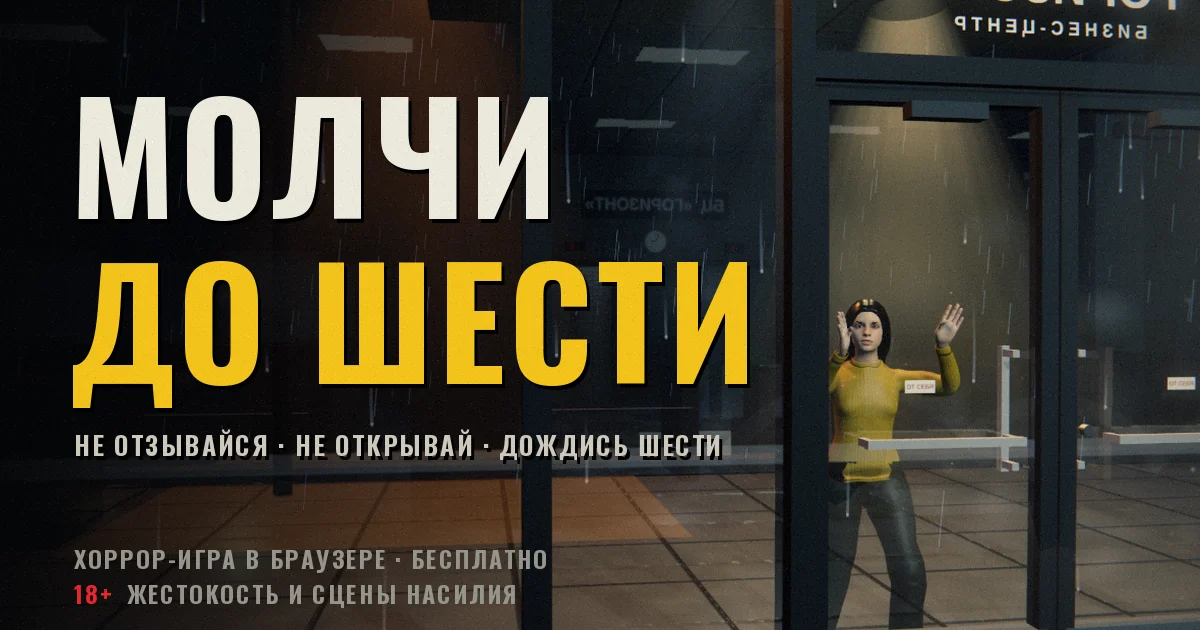
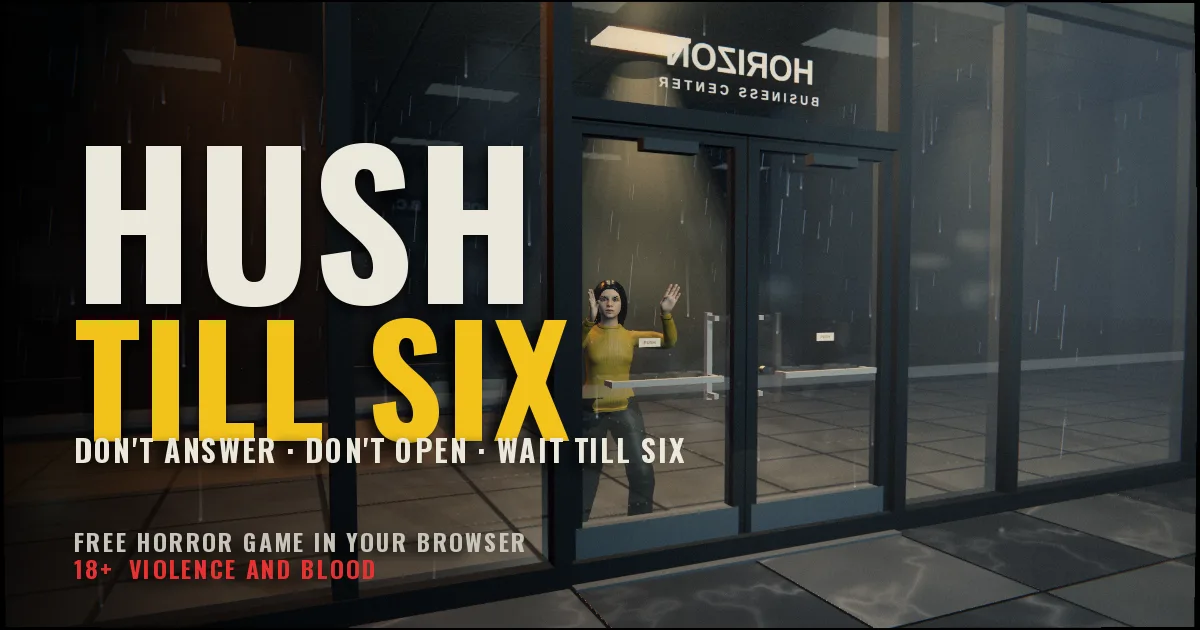
Hush Till Six: пауза и настройки без выхода из игры, анимация не ломается на паузе кадра, губы по словам, английский пролог, вертикальный кадр шире
- Кости: three.js не переписывает кость, если клип не изменился; пока кадр ждёт тапа, правки IK/наклона копились — люди сгибались и «ложились». Откат к чистой позе каждый кадр.
- Губы: визема по букве звучащего слова (тайминги слов), рот внутри в тени, мысли Итана — без движения губ.
- Английская версия: пролог грузился русским голосом (тайминги приходили позже).
- ☰ — пауза (Продолжить/Настройки/Главное меню), Esc; настройки с крестиком и прокруткой; язык и графика — перезагрузка с продолжением с того же места.
- Название всегда Hush Till Six; новое превью; записка «Правила» по новому сюжету.
- Вертикальный экран: угол обзора шире, чтобы оба героя были в кадре.

Claude-Session: https://claude.ai/code/session_01DiwnqB26fpYcSxva5WqzjX

diff --git a/public/games/nightshift/chars2.js b/public/games/nightshift/chars2.js
@@ -955,6 +955,14 @@ function feetIn(C, P) {
     keepWorld(C, 'foot_' + sd, fq);
   }
 }
+// three.js пишет в кость, только если значение клипа изменилось с прошлого кадра. Когда время кадра стоит (ждём тапа в конце реплики),
+// правки поверх клипа (наклон корпуса, IK рук и ног, таз, поворот, взгляд) накапливались кадр за кадром — человек сгибался и «ложился».
+// Поэтому перед клипом кости возвращаются к чистой позе прошлого кадра, а сразу после клипа чистая поза запоминается заново.
+function bonesRestore(C) { if (C.clean) for (const e of C.clean) { e[0].quaternion.copy(e[1]); e[0].position.copy(e[2]); } }
+function bonesSnap(C) {
+  if (!C.clean) C.clean = [...new Set(Object.values(C.bone))].map(b => [b, new T.Quaternion(), new T.Vector3()]);
+  for (const e of C.clean) { e[1].copy(e[0].quaternion); e[2].copy(e[0].position); }
+}
 function act3Body(C, P, tt, dt) {
   if (C.clip !== '§') { C.mixer.stopAllAction(); C.acts3 = C.acts3 || {}; for (const k in C.acts3) C.acts3[k].on3 = false; C.act = null; C.clip = '§'; }
   buildHands();
@@ -975,7 +983,7 @@ function act3Body(C, P, tt, dt) {
     used.add(nm);
   }
   for (const nm in C.acts3) if (!used.has(nm) && C.acts3[nm].on3) { C.acts3[nm].stop(); C.acts3[nm].on3 = false; }
-  C.mixer.update(0);
+  bonesRestore(C); C.mixer.update(0); bonesSnap(C);
   if (P.legs === 'feet') feetIn(C, P);
   if (P.pelvis || P.legs === 'plant') {   // таз сдвигается (присесть, перенести вес), ступни остаются где стояли — ноги сгибаются сами (IK)
     C.root.updateWorldMatrix(true, true);
@@ -1040,7 +1048,7 @@ function updateSkinned(C, t, dt) {
   // пальцы — в исходную позу до анимации: клип их почти не трогает, и кулак от швабры/стука иначе оставался навсегда
   for (const sd of ['l', 'r']) { for (const f of FING) for (let j = 1; j <= 3; j++) { const n = f + '_0' + j + '_' + sd; if (C.bone[n]) C.bone[n].quaternion.copy(C.rest[n]); }
     for (let j = 1; j <= 3; j++) { const n = 'thumb_0' + j + '_' + sd; if (C.bone[n]) C.bone[n].quaternion.copy(C.rest[n]); } }
-  C.mixer.update(Math.min(sdt, .2));
+  bonesRestore(C); C.mixer.update(Math.min(sdt, .2)); bonesSnap(C);
   }
   // ноги: у базовой анимации стойка «борца» (ступни широко) — сводим ступни под бёдра, подошва остаётся на полу
   const STAT = { stand: 1, talk: 1, knock: 1, press: 1, give: 1, paper: 1, reach: 1, hug: 1, mop: 1, slam: 1 };
@@ -1235,17 +1243,20 @@ function humanMat(C, n, kind, Q) {
   if (CINE && cut && kind !== 'eyes') m.alphaToCoverage = true;
   if (CINE && kind === 'eyes') m.envMapIntensity = .9;
   if (CINE && (kind === 'skin' || cloth)) m.envMapIntensity = .22;   // иначе на контровом свете кожа светится ореолом
+  if (CINE && (kind === 'teeth' || kind === 'tongue')) { m.envMapIntensity = .06; m.roughness = .55; }   // во рту нет бликов от комнаты
   const re = Array.isArray(tint) ? tint : null, U = Object.assign({}, C.HU, { uQ: { value: Q }, uTint: { value: new T.Color(re ? re[0] : 0xffffff) }, uGain: { value: re ? re[1] : 1 } });
   const snap = m.onBeforeCompile;
   m.onBeforeCompile = sh => {
     snap(sh); Object.assign(sh.uniforms, U);
     sh.vertexShader = 'uniform mat4 uQ;\nvarying vec3 vB;\n' + sh.vertexShader.replace('#include <begin_vertex>', '#include <begin_vertex>\n  vB = (uQ * vec4(position, 1.)).xyz;');
-    sh.fragmentShader = `uniform vec3 uTint, uGoreP, uEyeL3, uEyeR3; uniform float uGain, uGrey, uWet, uGore, uSocket, uH;
+    sh.fragmentShader = `uniform vec3 uTint, uGoreP, uEyeL3, uEyeR3; uniform float uGain, uGrey, uWet, uGore, uSocket, uH, uMouthZ;
 varying vec3 vB;
 float hh3(vec3 p) { return fract(sin(dot(p, vec3(12.9898, 78.233, 37.719))) * 43758.5453); }
 ` + sh.fragmentShader.replace('#include <map_fragment>', `#include <map_fragment>
   ${re ? `diffuseColor.rgb = mix(vec3(${LUMA}) * uTint * uGain, uTint, ${(re[2] || 0).toFixed(2)});` : ''}
   ${kind === 'skin' ? `{ float s = smoothstep(.04, .012, length(vB - uEyeL3)) + smoothstep(.04, .012, length(vB - uEyeR3)); diffuseColor.rgb *= 1. - .9 * uSocket * clamp(s, 0., 1.); }` : ''}
+  ${kind === 'teeth' || kind === 'tongue' ? `{ float dz = clamp((uMouthZ - vB.z) / .026, 0., 1.), pink = clamp((diffuseColor.r - diffuseColor.g) * 2.5, 0., 1.);   // рот внутри в тени: чем глубже, тем темнее; дёсны и язык — приглушённые
+    diffuseColor.rgb *= mix(1., .16, dz) * (1. - .55 * pink) * ${kind === 'tongue' ? '.5' : '1.'}; }` : ''}
   ${(() => { for (const k in (o.dim || {})) if (kind.includes(k)) return `diffuseColor.rgb *= ${o.dim[k].toFixed(2)};`; return ''; })()}
   float shK = 1.;   // своя тень на лице: карта теней грубая — нос и скулы дают на щеке рваный клин; на голове тень ослабляем
   ${kind === 'skin' ? `shK = 1. - .8 * smoothstep(.17, .1, length(vB - ((uEyeL3 + uEyeR3) * .5 + vec3(0., .02, -.08))));` : ''}
@@ -1268,6 +1279,8 @@ float hh3(vec3 p) { return fract(sin(dot(p, vec3(12.9898, 78.233, 37.719))) * 43
 // виземы речи: открытые (гласные) и закрытые/узкие (согласные)
 const VOPEN = ['viseme_aa', 'viseme_O', 'viseme_E', 'viseme_aa', 'viseme_I', 'viseme_U', 'viseme_E'];
 const VSHUT = ['viseme_PP', 'viseme_FF', 'viseme_SS', 'viseme_DD', 'viseme_nn', 'viseme_kk', 'viseme_TH', 'viseme_CH', 'viseme_RR'];
+// насколько открыт рот на каждой виземе (челюсть): гласные — шире, «п/б/м» — губы сомкнуты
+const JAW = { viseme_aa: .26, viseme_O: .2, viseme_E: .16, viseme_I: .1, viseme_U: .1, viseme_PP: 0, viseme_FF: .03, viseme_TH: .06, viseme_DD: .08, viseme_kk: .11, viseme_CH: .07, viseme_SS: .04, viseme_nn: .06, viseme_RR: .09 };
 const CLIPS3 = {};   // клипы с высотой таза под рост модели
 function clipsFor(k) {
   const key = k.toFixed(3); if (CLIPS3[key]) return CLIPS3[key];
@@ -1302,7 +1315,7 @@ function makeHuman(o) {
   for (const b of bones) { C.bone[b.name] = b; C.rest[b.name] = b.quaternion.clone(); }
   // мерки в позе покоя (метры): рост, глаза, рот
   C.HU = { uGrey: { value: o.grey || 0 }, uWet: { value: o.wet || 0 }, uGore: { value: 0 }, uSocket: { value: o.socket || 0 },
-    uGoreP: { value: new T.Vector3() }, uEyeL3: { value: new T.Vector3() }, uEyeR3: { value: new T.Vector3() }, uH: { value: 1 } };
+    uGoreP: { value: new T.Vector3() }, uEyeL3: { value: new T.Vector3() }, uEyeR3: { value: new T.Vector3() }, uH: { value: 1 }, uMouthZ: { value: 9 } };
   const toM = n => rest[meshes.indexOf(n)][0].clone().multiply(n.bindMatrix);   // сжатые координаты → метры
   const part = {};
   for (const n of meshes) {
@@ -1324,7 +1337,7 @@ function makeHuman(o) {
   }
   if (part.teeth) { const tb = bbox(part.teeth).clone().applyMatrix4(part.teeth.userData.Q);   // рот: перед верхних зубов
     const mw = new T.Vector3((tb.min.x + tb.max.x) / 2, tb.min.y + (tb.max.y - tb.min.y) * .55, tb.max.z + .006);
-    C.mouthW = mw.clone(); C.mouthL = C.bone.Head.worldToLocal(mw.clone()); }
+    C.mouthW = mw.clone(); C.mouthL = C.bone.Head.worldToLocal(mw.clone()); C.HU.uMouthZ.value = tb.max.z; }
   C.HU.uH.value = C.H / 1.8;
   // кровь: у жертвы — горло и грудь; у Жильца — рот, подбородок, грудь
   const neck = C.bone.neck_01.getWorldPosition(new T.Vector3());
@@ -1387,14 +1400,22 @@ function faceV3(C, tt, dt) {
   add('browDownLeft', clamp(-B.y * .9, 0, 1)); add('browDownRight', clamp(-B.y * .9, 0, 1));
   // речь: громкость голоса открывает челюсть, виземы меняются слогами (гласная — открытая, согласная — узкая/сомкнутая)
   const m = U.uTalk.value;
-  if (m > .02) {
+  if (C.vis) {   // губы по буквам реплики: движок знает, какое слово звучит и какая в нём буква сейчас
+    const v = C.vis === 'sil' ? null : C.vis;
+    if (v !== C.vCur) { C.vPrev = C.vCur; C.vCur = v; C.vK = 0; }
+    C.vK = Math.min(1, (C.vK || 0) + dt / .045);
+    const g = clamp(.4 + m * .9, 0, .85);   // даже шёпот — губы работают; громче — шире
+    if (C.vPrev) add(C.vPrev, (1 - C.vK) * g);
+    if (C.vCur) add(C.vCur, C.vK * g);
+    add('jawOpen', lerp(JAW[C.vPrev] || 0, JAW[C.vCur] || 0, C.vK) * (.6 + .5 * Math.min(1, m * 1.5)));
+  } else if (m > .02) {   // нет текста (крик, плач, текст без озвучки) — по громкости
     C.vT = (C.vT ?? 0) - dt;
     if (C.vT <= 0) { C.vT = .065 + rnd() * .085; C.vPrev = C.vCur; C.vCur = m > .3 ? VOPEN[rnd() * VOPEN.length | 0] : VSHUT[rnd() * VSHUT.length | 0]; C.vK = 0; }
     C.vK = Math.min(1, (C.vK || 0) + dt / .055);
     const g = Math.min(1, m * 1.5);
     if (C.vPrev) add(C.vPrev, (1 - C.vK) * g);
     if (C.vCur) add(C.vCur, C.vK * g);
-    add('jawOpen', m * .22);
+    add('jawOpen', m * .4);
   } else { C.vPrev = C.vCur = null; }
   // улыбка; у «Лили» за стеклом — шире, чем бывает у людей
   const sm = Math.max(o.smile || 0, fs.smile ? +fs.smile : 0);
@@ -1414,7 +1435,11 @@ function faceV3(C, tt, dt) {
     if (o.monster) { add('noseSneerLeft', scr * .7); add('noseSneerRight', scr * .7); add('mouthUpperUpLeft', scr * .8); add('mouthUpperUpRight', scr * .8); }
   }
   if (o.monster && !scr) { add('mouthStretchLeft', .25); add('mouthStretchRight', .25); add('eyeWideLeft', .5); add('eyeWideRight', .5); }
-  for (const n of C.M) { const d = n.morphTargetDictionary, inf = n.morphTargetInfluences; for (const k in d) inf[d[k]] = W[k] || 0; }
+  // язык лежит на дне рта: опускается вместе с челюстью и губами (своих форм звуков почти не берёт — иначе торчал вперёд и заполнял рот)
+  const tOpen = Math.min(1, (W.jawOpen || 0) + .6 * Math.max(W.viseme_aa || 0, .85 * (W.viseme_O || 0), .7 * (W.viseme_E || 0), .5 * (W.viseme_U || 0), .45 * (W.viseme_I || 0)));
+  for (const n of C.M) { const d = n.morphTargetDictionary, inf = n.morphTargetInfluences;
+    if (/tongue/i.test(n.name)) { for (const k in d) inf[d[k]] = k === 'jawOpen' ? tOpen : k === 'viseme_TH' || k === 'viseme_DD' ? .3 * (W[k] || 0) : 0; continue; }
+    for (const k in d) inf[d[k]] = W[k] || 0; }
 }
 
 /* ---------- актёры «Ночной смены» ---------- */

diff --git a/public/games/nightshift/index.html b/public/games/nightshift/index.html
@@ -4,25 +4,25 @@
 <meta charset="utf-8">
 <meta name="viewport" content="width=device-width,initial-scale=1,maximum-scale=1,user-scalable=no,viewport-fit=cover">
 <meta name="theme-color" content="#050607">
-<title>Молчи до шести</title>
+<title>Hush Till Six</title>
 <meta name="description" content="Интерактивное хоррор-кино: ночной охранник, четыре правила и сестра за стеклом. Твои выборы решают, доживёшь ли ты до утра.">
-<meta name="application-name" content="Молчи до шести">
-<meta name="apple-mobile-web-app-title" content="Молчи до шести">
+<meta name="application-name" content="Hush Till Six">
+<meta name="apple-mobile-web-app-title" content="Hush Till Six">
 <meta name="apple-mobile-web-app-capable" content="yes">
 <meta name="mobile-web-app-capable" content="yes">
 <meta name="apple-mobile-web-app-status-bar-style" content="black-translucent">
 <meta property="og:type" content="website">
 <meta property="og:site_name" content="Yompix Games">
-<meta property="og:title" content="Молчи до шести — интерактивный хоррор">
+<meta property="og:title" content="Hush Till Six — interactive horror">
 <meta property="og:description" content="Ночной охранник, четыре правила и сестра за стеклом. Не впускай её. Играй прямо в браузере.">
-<meta property="og:image" content="https://office-dreams-production.up.railway.app/games/nightshift/og.jpg?v=2">
+<meta property="og:image" content="https://office-dreams-production.up.railway.app/games/nightshift/og.jpg?v=3">
 <meta property="og:image:width" content="1200">
 <meta property="og:image:height" content="630">
-<meta property="og:image:alt" content="МОЛЧИ ДО ШЕСТИ: девушка в жёлтом свитере за стеклянной дверью ночью">
+<meta property="og:image:alt" content="HUSH TILL SIX: a girl in a yellow sweater behind a glass door at night">
 <meta name="twitter:card" content="summary_large_image">
 <meta name="twitter:title" content="Молчи до шести — интерактивный хоррор">
 <meta name="twitter:description" content="Ночной охранник, четыре правила и сестра за стеклом. Не впускай её.">
-<meta name="twitter:image" content="https://office-dreams-production.up.railway.app/games/nightshift/og.jpg?v=2">
+<meta name="twitter:image" content="https://office-dreams-production.up.railway.app/games/nightshift/og.jpg?v=3">
 <link rel="manifest" href="manifest.json">
 <link rel="icon" href="favicon.ico" sizes="16x16 32x32 48x48">
 <link rel="icon" type="image/png" sizes="32x32" href="favicon-32.png">
@@ -74,6 +74,11 @@ canvas { position: absolute; inset: 0; width: 100%; height: 100%; display: block
 #note div { width: 82%; background: #efe6d2; color: #161616; font: 800 calc(4.6 * var(--u))/1.45 "Courier New", monospace; padding: calc(6 * var(--u)) calc(5 * var(--u)); transform: rotate(-1.5deg); box-shadow: 0 calc(2 * var(--u)) calc(8 * var(--u)) #000; white-space: pre-line; }
 #note div i { display: block; color: #a01818; margin-top: calc(3 * var(--u)); font-style: normal; }
 #note small { display: block; margin-top: calc(4 * var(--u)); font: 600 calc(3.2 * var(--u))/1.3 Inter, Arial, sans-serif; opacity: .6; text-align: center; }
+#note div.memo { white-space: normal; font: 600 calc(3.5 * var(--u))/1.45 "Courier New", monospace; max-height: 86%; overflow-y: auto; }
+#note div.memo b { display: block; font-weight: 800; font-size: calc(3.9 * var(--u)); margin-bottom: calc(2.4 * var(--u)); letter-spacing: calc(.2 * var(--u)); }
+#note div.memo span { display: block; margin-bottom: calc(1.6 * var(--u)); padding-left: calc(3 * var(--u)); text-indent: calc(-3 * var(--u)); }
+#note div.memo span::before { content: '— '; }
+#note div.memo i { white-space: pre-line; font-weight: 800; font-size: calc(4 * var(--u)); }
 /* выбор */
 #choice { position: absolute; left: 0; right: 0; bottom: 0; padding: 0 7% 14%; pointer-events: auto; background: linear-gradient(transparent, rgba(0,0,0,.85) 40%); animation: fadein .35s; }
 #choice h2 { margin: 0 0 calc(4 * var(--u)); text-align: center; font-size: calc(6.6 * var(--u)); font-weight: 900; text-shadow: 0 0 calc(2 * var(--u)) #000; }
@@ -229,6 +234,22 @@ canvas { position: absolute; inset: 0; width: 100%; height: 100%; display: block
 .screen.sub { background: rgba(0,0,0,.72); justify-content: flex-start; padding-top: 18%; }
 .screen.sub h1 { font-size: calc(9 * var(--u)); letter-spacing: calc(1 * var(--u)); text-shadow: none; margin-bottom: calc(5 * var(--u)); }
 .sets { width: 100%; display: flex; flex-direction: column; gap: calc(2 * var(--u)); margin-bottom: calc(3 * var(--u)); }
+/* крестик «назад/закрыть» в углу экранов меню; пауза в игре; настройки прокручиваются, шапка с крестиком всегда видна */
+#pz { position: absolute; inset: 0; z-index: 20; }
+.sx { position: absolute; top: calc(3 * var(--u)); right: calc(3 * var(--u)); z-index: 3; width: calc(11 * var(--u)); height: calc(11 * var(--u)); display: flex; align-items: center; justify-content: center; padding: 0;
+  border-radius: 50%; border: calc(.4 * var(--u)) solid rgba(255,255,255,.3); background: rgba(10,10,12,.7); color: #ece8dc; cursor: pointer; pointer-events: auto; }
+.sx .ic { width: 55%; height: 55%; stroke-width: 2.2; }
+.screen.pz { background: rgba(0,0,0,.8); backdrop-filter: blur(3px); }
+#pz .screen.sub { background: rgba(4,4,6,.95); }   /* настройки поверх игры: субтитры и кнопки игры не просвечивают */
+.screen.pz h1 { margin-bottom: calc(8 * var(--u)); }
+.screen.pz .btn { max-width: calc(80 * var(--u)); }
+.screen.sub { overflow-y: auto; overscroll-behavior: contain; }
+.sets-scr { padding-top: 0 !important; }
+.sets-hd { position: sticky; top: 0; z-index: 2; width: 100%; display: flex; align-items: center; justify-content: center; min-height: calc(18 * var(--u)); margin-bottom: calc(2 * var(--u));
+  background: linear-gradient(rgba(0,0,0,.92) 75%, rgba(0,0,0,0)); flex: none; }
+.sets-hd h1 { margin: 0 !important; }
+.sets-hd .sx { top: 50%; right: 0; transform: translateY(-50%); }
+.sets-scr > small, .sets-scr > .btn { flex: none; }
 .set { display: flex; justify-content: space-between; align-items: center; width: 100%; padding: calc(4 * var(--u)) calc(4.4 * var(--u)); background: rgba(255,255,255,.05); border: calc(.3 * var(--u)) solid rgba(255,255,255,.14); border-radius: calc(2.4 * var(--u)); color: #ece8dc; font: 600 calc(4.6 * var(--u))/1 Inter, Arial, sans-serif; cursor: pointer; }
 .set b { font: 700 calc(4 * var(--u))/1 NSUI, Inter, Arial, sans-serif; letter-spacing: calc(.5 * var(--u)); color: #f2c21b; }
 .set:active { background: rgba(224,48,58,.2); }
@@ -326,6 +347,9 @@ body.land #choice h2 { margin-bottom: calc(3 * var(--u)); }
 body.land .screen { padding: 4% 8%; }
 body.land .screen p, body.land .gal, body.land .sets, body.land .spons { max-width: calc(120 * var(--u)); }
 body.land .screen.sub { padding-top: 5%; }
+body.land .sets-scr .sets { display: grid; grid-template-columns: 1fr 1fr; gap: calc(2 * var(--u)) calc(3 * var(--u)); max-width: calc(190 * var(--u)); }
+body.land .sets-scr .vols { grid-column: 1 / -1; display: grid; grid-template-columns: 1fr 1fr; column-gap: calc(6 * var(--u)); }
+body.land .sets-scr .sets-hd { max-width: calc(190 * var(--u)); min-height: calc(14 * var(--u)); }
 body.land .screen.jr { flex-direction: row; align-items: flex-start; justify-content: center; padding: 3% 5% 4%; gap: calc(9 * var(--u)); }
 body.land .jr-page { width: calc(112 * var(--u)); max-width: none; }
 body.land .jr-side { width: calc(76 * var(--u)); padding-top: calc(1 * var(--u)); }
@@ -359,16 +383,17 @@ body.land #keys { display: none; }
   <div id="note" class="hide"></div>
   <div id="sms" class="hide"></div>
   <div id="ui"></div>
+  <div id="pz" class="hide"></div>
 </div>
-<script src="i18n.js?v=5"></script>
+<script src="i18n.js?v=6"></script>
 <script src="lib/three.min.js"></script>
 <script src="lib/gltf.min.js"></script>
 <script src="lib/meshopt_decoder.js"></script>
 <script src="world.js?v=6"></script>
 <script src="chars.js?v=2"></script>
-<script src="chars2.js?v=11"></script>
-<script src="scenes.js?v=15"></script>
+<script src="chars2.js?v=12"></script>
+<script src="scenes.js?v=16"></script>
 <script src="story.js?v=17"></script>
-<script src="engine.js?v=23"></script>
+<script src="engine.js?v=24"></script>
 </body>
 </html>

diff --git a/public/games/nightshift/scenes.js b/public/games/nightshift/scenes.js
@@ -1699,7 +1699,11 @@ function init() {
 }
 const NAME = { 'ИТАН': ['temych'], 'СМЕНЩИК': ['smenshik'], 'ЛИЛИ': ['katya', 'katyaSmile', 'katyaThing'], '???': ['monster'], 'ФРЭНК': ['mihalych'], 'ГАС': ['cleaner'] };   // кто говорит → чей рот двигается
 const _v = new T.Vector3(), _d = new T.Vector3();
+// вертикальный экран: кадры поставлены под 16:9, при том же вертикальном угле в 9:16 по бокам остаётся треть кадра — двое в кадре не помещаются.
+// Поэтому в вертикали угол шире (по горизонтали ~47° вместо ~26° при fov 44): больше пола и потолка, но герои и предметы в кадре
+const PORT_K = 1.9;
 function aim(c, pos, look, fov, cx, cy, z, sx, sy) {
+  if (!V.land) fov = 2 * Math.atan(Math.tan(fov * PI / 360) * PORT_K) * 180 / PI;
   c.position.set(pos[0], pos[1], pos[2]); c.fov = fov; c.aspect = V.RW / V.RH; c.updateProjectionMatrix(); c.lookAt(look[0], look[1], look[2]); c.updateMatrixWorld();
   // точка (cx, cy) кадра → направление; зум сужает угол обзора вокруг неё (как настоящий объектив)
   _v.set((cx - .5) * 2, -(cy - .5) * 2, .5).unproject(c); _d.copy(_v).sub(c.position).normalize();
@@ -1816,8 +1820,8 @@ function draw(g, W, H, id, o) {
   const newShot = id !== lastId; lastId = id;
   const { sh, o: loc, used } = stage(id, t, o);
   // кто говорит: рот двигается по громкости голоса
-  for (const k in A) A[k].talk = 0;
-  if (o.talk && o.talk.who) for (const k of NAME[o.talk.who] || []) if (used.has(k)) { A[k].talk = o.talk.v; break; }
+  for (const k in A) { A[k].talk = 0; A[k].vis = null; }
+  if (o.talk && o.talk.who) for (const k of NAME[o.talk.who] || []) if (used.has(k)) { A[k].talk = o.talk.v; A[k].vis = o.talk.vis || null; break; }   // vis — форма губ под букву (движок)
   if (sh.hum && used.has(sh.hum) && !(o.talk && o.talk.who)) A[sh.hum].talk = .1 + .12 * Math.abs(Math.sin(t * 4.3)) * (Math.sin(t * 1.1) > -.5 ? 1 : 0);   // мурлычет себе под нос
   if (newShot) for (const k of used) A[k].smDone = false;   // после склейки покадровый Жилец сразу встаёт в новую позу (иначе миг виден старый кадр)
   for (const k of used) A[k].update(T0, dt);
@@ -1871,5 +1875,5 @@ function thumb(id, o = {}) {   // маленькая картинка кадра
   return (thumbs[key] = c.toDataURL('image/jpeg', .7));
 }
 // World.props — «нормы» холла (куртка, пропуск, часы); World.vhs — сила плёнки 0..1 (для пункта меню); World.tube — горит ли сейчас ненадёжная лампа (для звука)
-window.World = { draw, init, warm, setLand, perf: perfTick, get land() { return V.land; }, get cine() { return CINE; }, thumb, shots: SH, alias: ALIAS, props: null, get ok() { return scenesReady; }, get tube() { return curLoc ? curLoc.tubeOK ?? 1 : 1; }, get ir() { return !!(curLoc && curLoc.ir); }, set vhs(v) { VHS = clamp(+v || 0, 0, 1); }, get vhs() { return VHS; } };
+window.World = { draw, init, warm, setLand, perf: perfTick, get actors() { return A; }, get land() { return V.land; }, get cine() { return CINE; }, thumb, shots: SH, alias: ALIAS, props: null, get ok() { return scenesReady; }, get tube() { return curLoc ? curLoc.tubeOK ?? 1 : 1; }, get ir() { return !!(curLoc && curLoc.ir); }, set vhs(v) { VHS = clamp(+v || 0, 0, 1); }, get vhs() { return VHS; } };
 })();

diff --git a/public/games/nightshift/i18n.js b/public/games/nightshift/i18n.js
@@ -172,6 +172,8 @@ const EN = {
   "Шаги у самой будки. Держи кнопку, пока она не уйдёт.": "Footsteps right by the booth. Hold the button until she leaves.",
   "Она дышит за стеклом будки. Не отпускай.": "She's breathing on the other side of the booth glass. Don't let go.", "ЗАТАИТЬСЯ": "STAY STILL", "НЕ ДЫШУ": "NOT BREATHING",
   "Шаги удаляются. Пока.": "The footsteps fade. For now.", "Я на седьмом. Тут светло и тепло. Поднимись ко мне?": "I'm on seven. It's bright and warm up here. Come up to me?",
+  // пауза
+  'ПАУЗА': 'PAUSED', 'Главное меню': 'Main menu',
 };
 const tr = s => LANG === 'en' && EN[s] != null ? EN[s] : s;
 // подстановки: tr('Проверено: {n} из 3', { n: 2 })

diff --git a/tools/itch/og.py b/tools/itch/og.py
@@ -1,0 +1,40 @@
+#!/usr/bin/env python3
+"""Картинка-превью ссылки и обложка для itch.io: кадр игры + название «HUSH TILL SIX» (шрифт Oswald 700, OFL).
+   python3 tools/itch/og.py КАДР.png ШРИФТ_Oswald700.ttf
+     → public/games/nightshift/og.jpg и og.webp (1200×630), dist/itch/cover.png (630×500)
+   Кадр — титульный (Лили за стеклом): GFX=cine LAND=1 SIZE=1200x630 node tools/nightshift-shot.js ПАПКА "door_katya@3" """
+import os, sys
+from PIL import Image, ImageDraw, ImageFont, ImageFilter
+ROOT = os.path.dirname(os.path.dirname(os.path.dirname(os.path.abspath(__file__))))
+GAME = os.path.join(ROOT, 'public/games/nightshift')
+frame, font = sys.argv[1], sys.argv[2]
+CREAM, GOLD, RED = (236, 232, 220), (242, 194, 27), (230, 50, 50)
+
+def compose(W, H, big, lines):
+    im = Image.open(frame).convert('RGB')
+    s = max(W / im.width, H / im.height); im = im.resize((round(im.width * s), round(im.height * s)), Image.LANCZOS)
+    x0 = (im.width - W) // 2; im = im.crop((x0, 0, x0 + W, H))
+    # слева темнее — там название
+    shade = Image.new('L', (W, H)); d = ImageDraw.Draw(shade)
+    for x in range(W): d.line([(x, 0), (x, H)], fill=int(205 * max(0, 1 - x / (W * .62)) ** 1.3))
+    im = Image.composite(Image.new('RGB', (W, H), (0, 0, 0)), im, shade)
+    d = ImageDraw.Draw(im)
+    def text(xy, s, size, color, spacing=0):
+        f = ImageFont.truetype(font, size); x, y = xy
+        sh = Image.new('L', im.size); ImageDraw.Draw(sh).text((x + 3, y + 5), s, font=f, fill=200)
+        im.paste((0, 0, 0), mask=sh.filter(ImageFilter.GaussianBlur(5)))
+        for ch in s:   # разрядка
+            d.text((x, y), ch, font=f, fill=color); x += f.getlength(ch) + spacing
+        return f.getbbox(s)[3]
+    y = big[0]
+    for s, size, color in big[1]: text((big[2], y), s, size, color, 2); y += int(size * .98)
+    for s, size, color, dy in lines: y += dy; text((big[2], y), s, size, color, 2); y += int(size * 1.15)
+    return im
+
+og = compose(1200, 630, (70, [('HUSH', 196, CREAM), ('TILL SIX', 150, GOLD)], 74),
+             [("DON'T ANSWER · DON'T OPEN · WAIT TILL SIX", 30, CREAM, 18), ('FREE HORROR GAME IN YOUR BROWSER', 24, (200, 196, 186), 62), ('18+  VIOLENCE AND BLOOD', 24, RED, 0)])
+og.save(os.path.join(GAME, 'og.jpg'), quality=88); og.save(os.path.join(GAME, 'og.webp'), quality=82)
+os.makedirs(os.path.join(ROOT, 'dist/itch'), exist_ok=True)
+cover = compose(630, 500, (60, [('HUSH', 150, CREAM), ('TILL SIX', 112, GOLD)], 44), [("DON'T ANSWER · DON'T OPEN", 24, CREAM, 18), ('18+  HORROR', 22, RED, 30)])
+cover.save(os.path.join(ROOT, 'dist/itch/cover.png'))
+print('готово: og.jpg, og.webp, dist/itch/cover.png')
